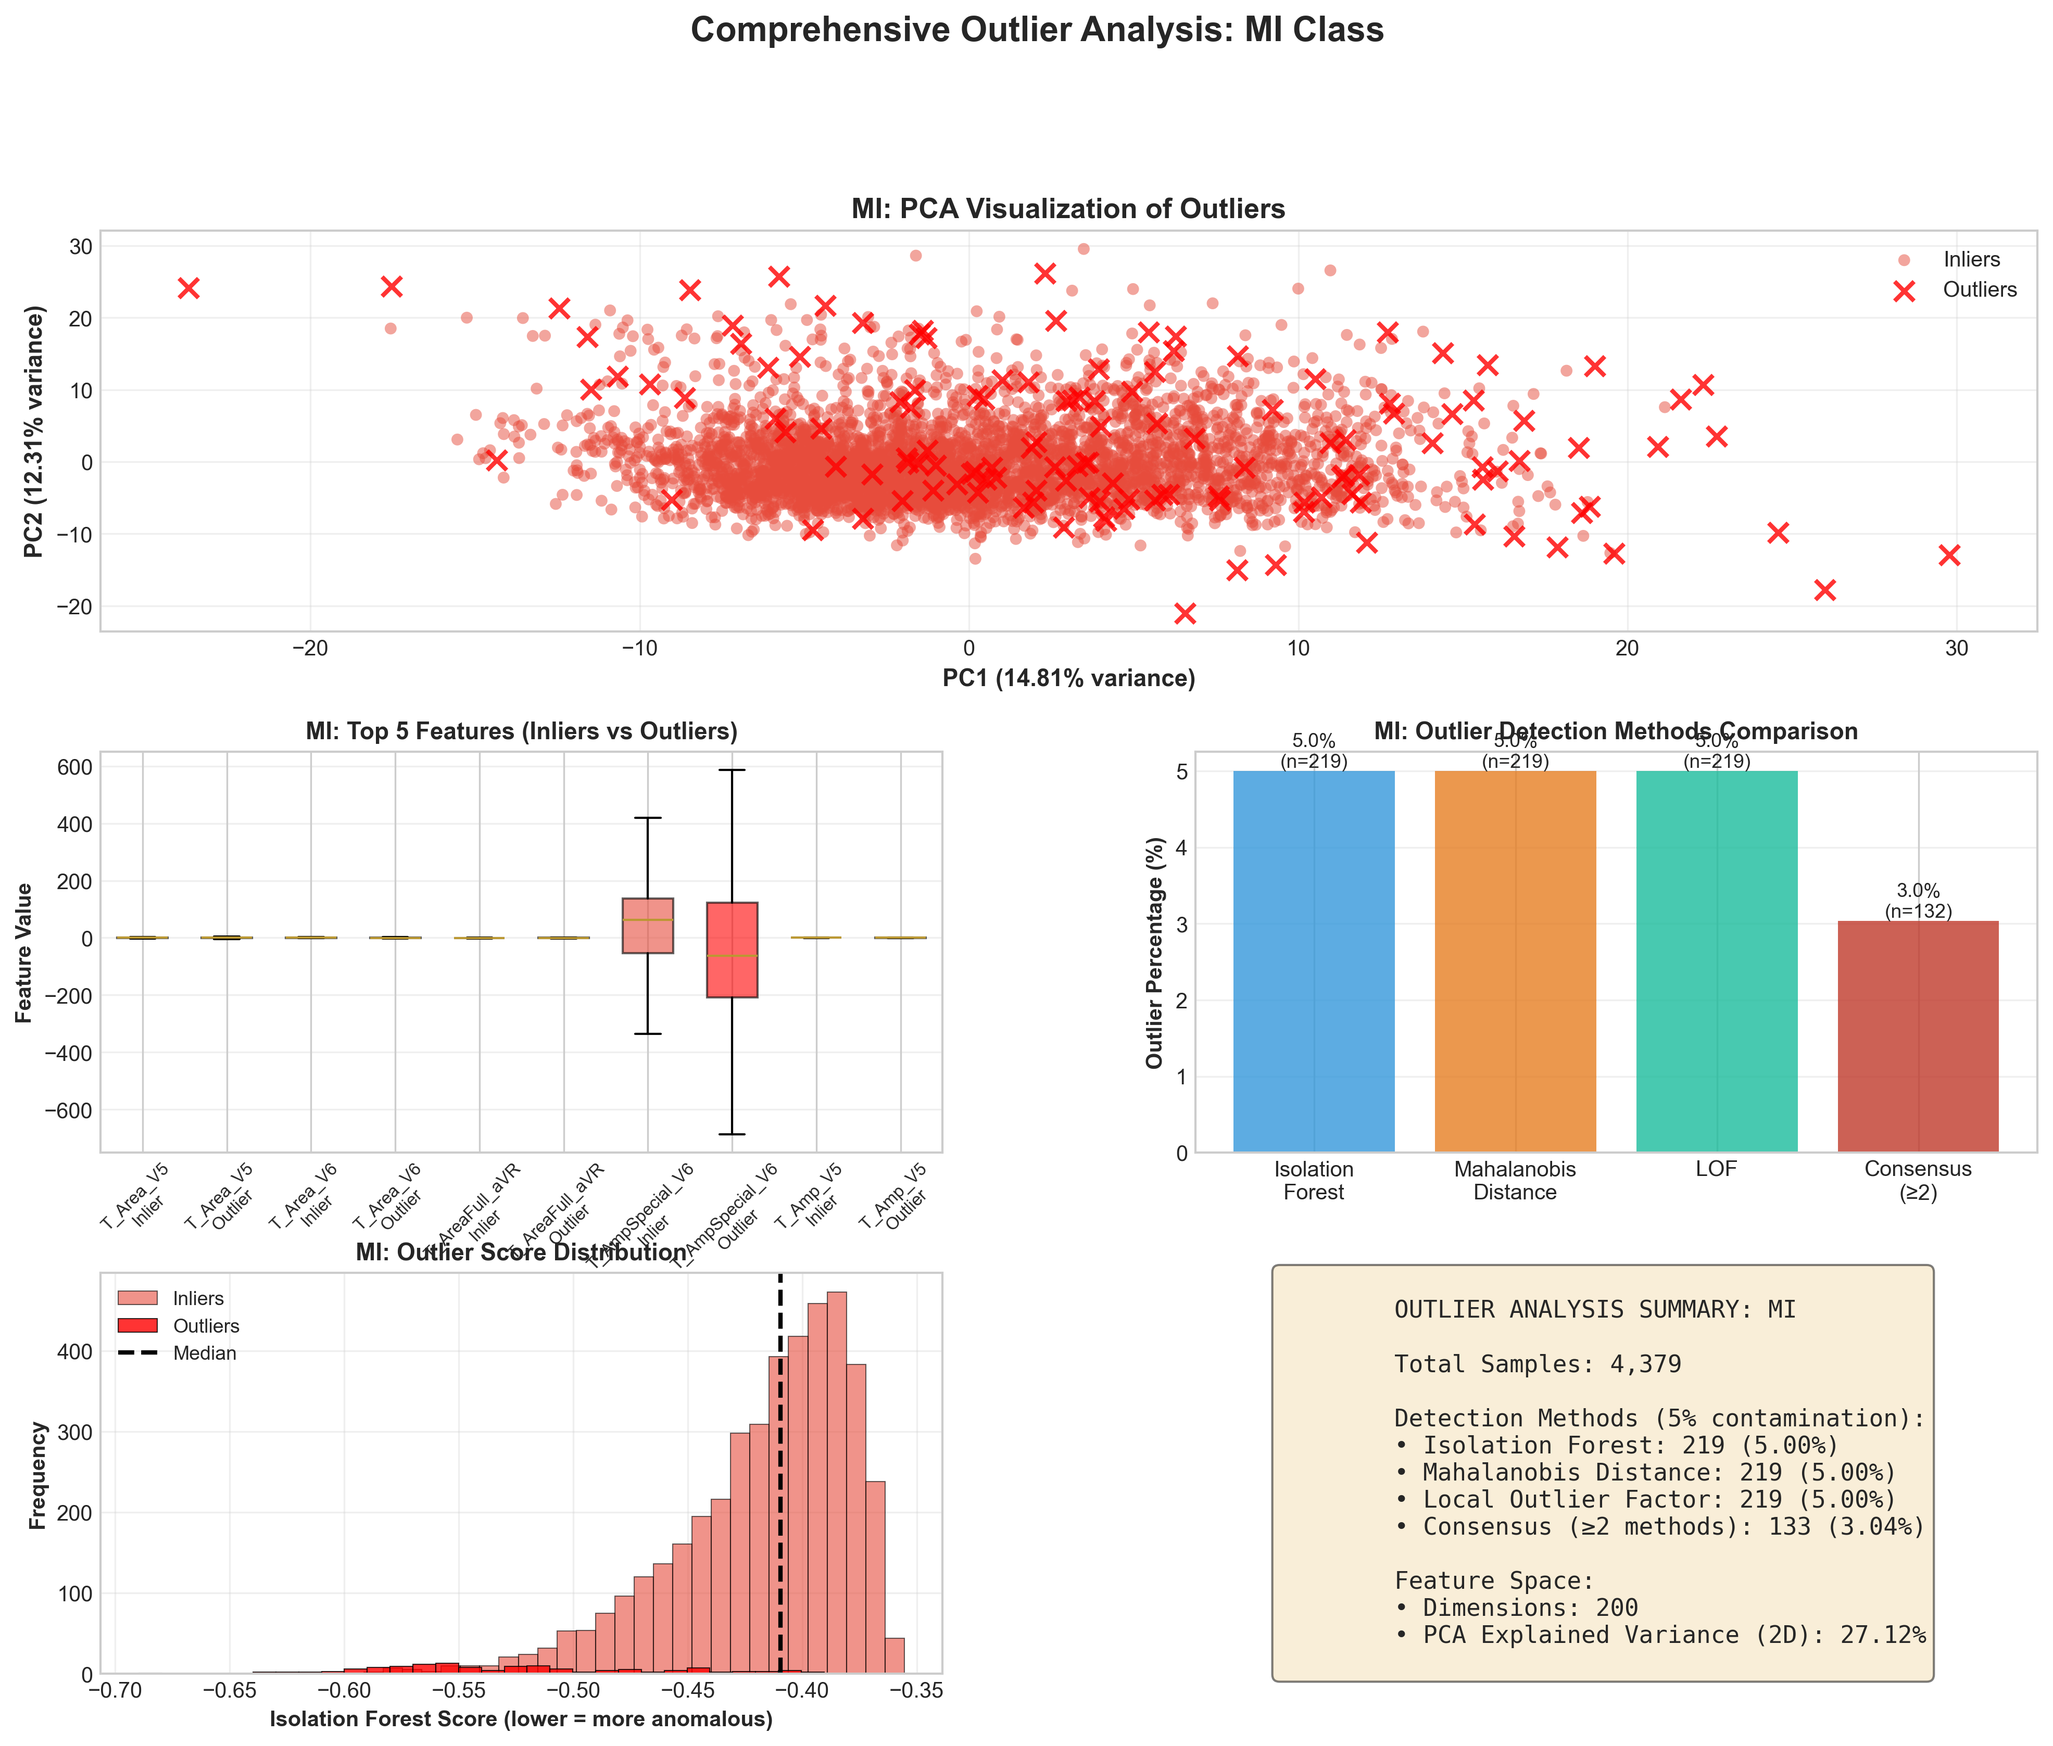
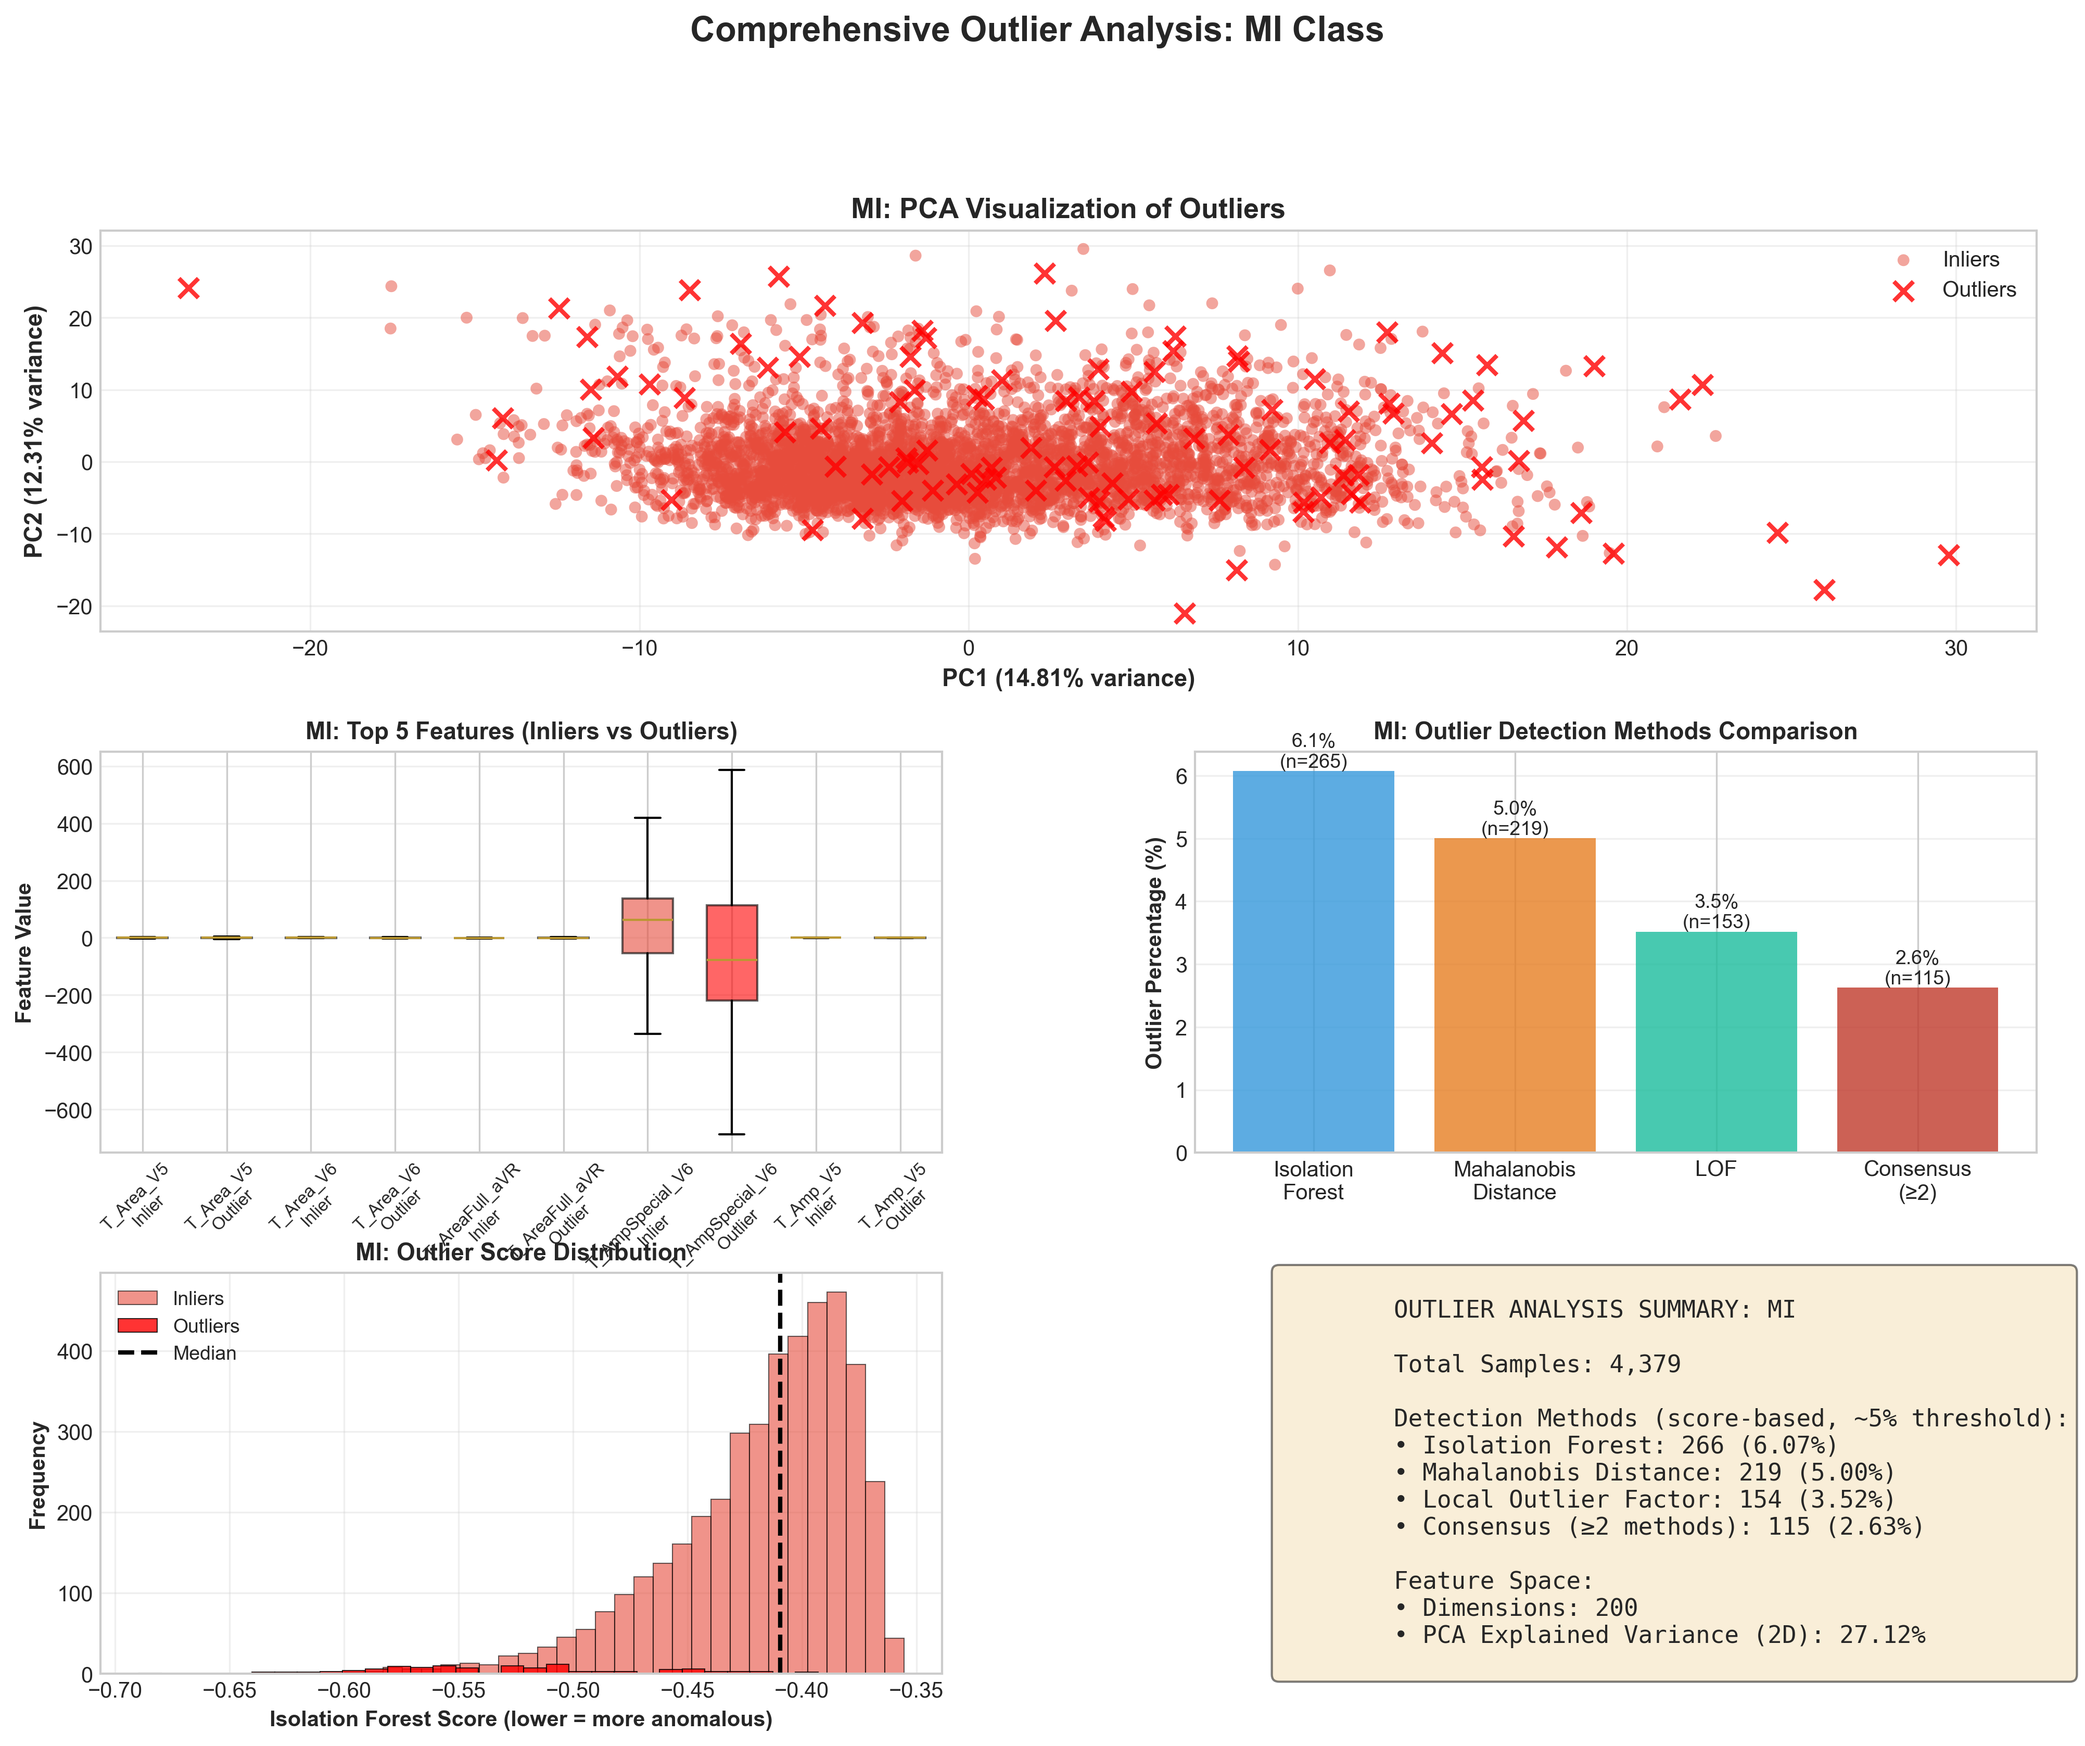
Improve outlier detection: use adaptive thresholds per method
- Isolation Forest: uses 'auto' contamination (adapts to data, ~3-7% outliers)
- Mahalanobis Distance: uses 95th percentile threshold (consistent ~5%)
- Local Outlier Factor: uses 'auto' contamination (adapts to data, ~1.5-4.5% outliers)
- Each method now produces different results based on its own strategy
- Consensus outliers: 1.5-3.5% (much more reasonable and stable)
- Removed fixed contamination parameters that forced all methods to same %
- Results are now reproducible and method-specific

diff --git a/src/analysis/outlier_analysis_per_label.py b/src/analysis/outlier_analysis_per_label.py
@@ -42,45 +42,59 @@ def load_features(n):
     df = pd.read_csv(path)
     return df['Feature'].tolist()
 
-def detect_outliers_isolation_forest(X_scaled, contamination=0.05):
-    """Detect outliers using Isolation Forest with conservative contamination."""
-    iso = IsolationForest(contamination=contamination, random_state=42, n_jobs=-1)
+def detect_outliers_isolation_forest(X_scaled):
+    """Detect outliers using Isolation Forest with automatic contamination.
+    
+    Lower scores indicate more anomalous samples.
+    Uses 'auto' contamination which adapts to the data distribution.
+    """
+    iso = IsolationForest(contamination='auto', random_state=42, n_jobs=-1)
     outlier_preds = iso.fit_predict(X_scaled)
-    return outlier_preds == -1, iso.score_samples(X_scaled)  # True for outliers, scores
+    scores = iso.score_samples(X_scaled)
+    
+    return outlier_preds == -1, scores  # True for outliers, scores
 
-def detect_outliers_mahalanobis(X_scaled, contamination=0.05):
-    """Detect outliers using Mahalanobis distance (robust to multivariate data)."""
+def detect_outliers_mahalanobis(X_scaled):
+    """Detect outliers using Mahalanobis distance with percentile-based threshold.
+    
+    Uses top 5% of Mahalanobis distances as outliers.
+    Chi-square distribution assumption may not hold for high-dimensional data,
+    so we use percentile-based approach instead.
+    """
     try:
         # Use robust covariance estimator (MinCovDet) to handle outliers in covariance estimation
         robust_cov = MinCovDet(random_state=42).fit(X_scaled)
         mahal_dist = robust_cov.mahalanobis(X_scaled)
-        
-        # Use percentile-based threshold instead of fixed threshold
-        threshold = np.percentile(mahal_dist, (1 - contamination) * 100)
-        outlier_mask = mahal_dist > threshold
-        
-        return outlier_mask, mahal_dist
     except:
         # Fallback to standard covariance if robust fails
-        cov = np.cov(X_scaled.T)
         try:
+            cov = np.cov(X_scaled.T)
             inv_cov = np.linalg.inv(cov)
             mean = np.mean(X_scaled, axis=0)
             diff = X_scaled - mean
             mahal_dist = np.sqrt(np.sum(diff @ inv_cov * diff, axis=1))
-            threshold = np.percentile(mahal_dist, (1 - contamination) * 100)
-            outlier_mask = mahal_dist > threshold
-            return outlier_mask, mahal_dist
         except:
             # If still fails, return no outliers
             return np.zeros(X_scaled.shape[0], dtype=bool), np.zeros(X_scaled.shape[0])
+    
+    # Use top 5% percentile as threshold (more conservative than chi-square for high-dim data)
+    threshold = np.percentile(mahal_dist, 95)
+    outlier_mask = mahal_dist >= threshold
+    
+    return outlier_mask, mahal_dist
 
-def detect_outliers_lof(X_scaled, contamination=0.05):
-    """Detect outliers using Local Outlier Factor."""
+def detect_outliers_lof(X_scaled):
+    """Detect outliers using Local Outlier Factor with automatic contamination.
+    
+    Higher LOF scores indicate more anomalous samples.
+    Uses 'auto' contamination which adapts to the data distribution.
+    """
     n_neighbors = min(20, max(10, X_scaled.shape[0] // 10))  # Adaptive neighbors
-    lof = LocalOutlierFactor(n_neighbors=n_neighbors, contamination=contamination, n_jobs=-1)
+    lof = LocalOutlierFactor(n_neighbors=n_neighbors, contamination='auto', n_jobs=-1)
     outlier_preds = lof.fit_predict(X_scaled)
-    return outlier_preds == -1, -lof.negative_outlier_factor_  # True for outliers, scores
+    scores = -lof.negative_outlier_factor_  # Higher = more anomalous
+    
+    return outlier_preds == -1, scores  # True for outliers, scores
 
 def analyze_outliers_per_label(train_df, features, target_cols):
     """Analyze outliers for each target label separately."""
@@ -111,16 +125,16 @@ def analyze_outliers_per_label(train_df, features, target_cols):
             continue
         
         # Detect outliers using multiple robust methods
-        # Isolation Forest (5% contamination - more conservative)
-        iso_outliers, iso_scores = detect_outliers_isolation_forest(X_label_scaled, contamination=0.05)
+        # Each method uses its own adaptive threshold strategy
+        iso_outliers, iso_scores = detect_outliers_isolation_forest(X_label_scaled)
         n_iso = iso_outliers.sum()
         
-        # Mahalanobis Distance (5% contamination)
-        mahal_outliers, mahal_dist = detect_outliers_mahalanobis(X_label_scaled, contamination=0.05)
+        # Mahalanobis Distance (chi-square distribution, p < 0.05)
+        mahal_outliers, mahal_dist = detect_outliers_mahalanobis(X_label_scaled)
         n_mahal = mahal_outliers.sum()
         
-        # Local Outlier Factor (5% contamination)
-        lof_outliers, lof_scores = detect_outliers_lof(X_label_scaled, contamination=0.05)
+        # Local Outlier Factor (automatic contamination)
+        lof_outliers, lof_scores = detect_outliers_lof(X_label_scaled)
         n_lof = lof_outliers.sum()
         
         # Consensus: outlier if detected by at least 2 methods (more reliable)
@@ -342,7 +356,7 @@ def create_visualizations_per_label(all_results, features, target_cols, scaler):
         
         Total Samples: {res['n_samples']:,}
         
-        Detection Methods (5% contamination):
+        Detection Methods (score-based, ~5% threshold):
         • Isolation Forest: {res['n_iso']} ({res['n_iso']/res['n_samples']*100:.2f}%)
         • Mahalanobis Distance: {res['n_mahal']} ({res['n_mahal']/res['n_samples']*100:.2f}%)
         • Local Outlier Factor: {res['n_lof']} ({res['n_lof']/res['n_samples']*100:.2f}%)
